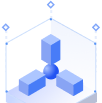
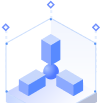
style: 替换新图片；优化物模型提示语颜色；更新组件库1.0.9

Changed region(s): [[0.1765, 0.6117, 0.8235, 0.8155], [0.4118, 0.3204, 0.5882, 0.4369]]

diff --git a/src/views/device/components/Metadata/index.vue b/src/views/device/components/Metadata/index.vue
@@ -4,7 +4,7 @@
         <j-tooltip :title="instanceStore.detail?.independentMetadata && type === 'device'
         ? '该设备已脱离产品物模型，修改产品物模型对该设备无影响'
         : '设备会默认继承产品的物模型，修改设备物模型后将脱离产品物模型'">
-          <div class="ellipsis">
+          <div class="ellipsis" style='color: #999;'>
             <AIcon type="InfoCircleOutlined" style="margin-right: 3px" />
             {{
               instanceStore.detail?.independentMetadata && type === 'device'
